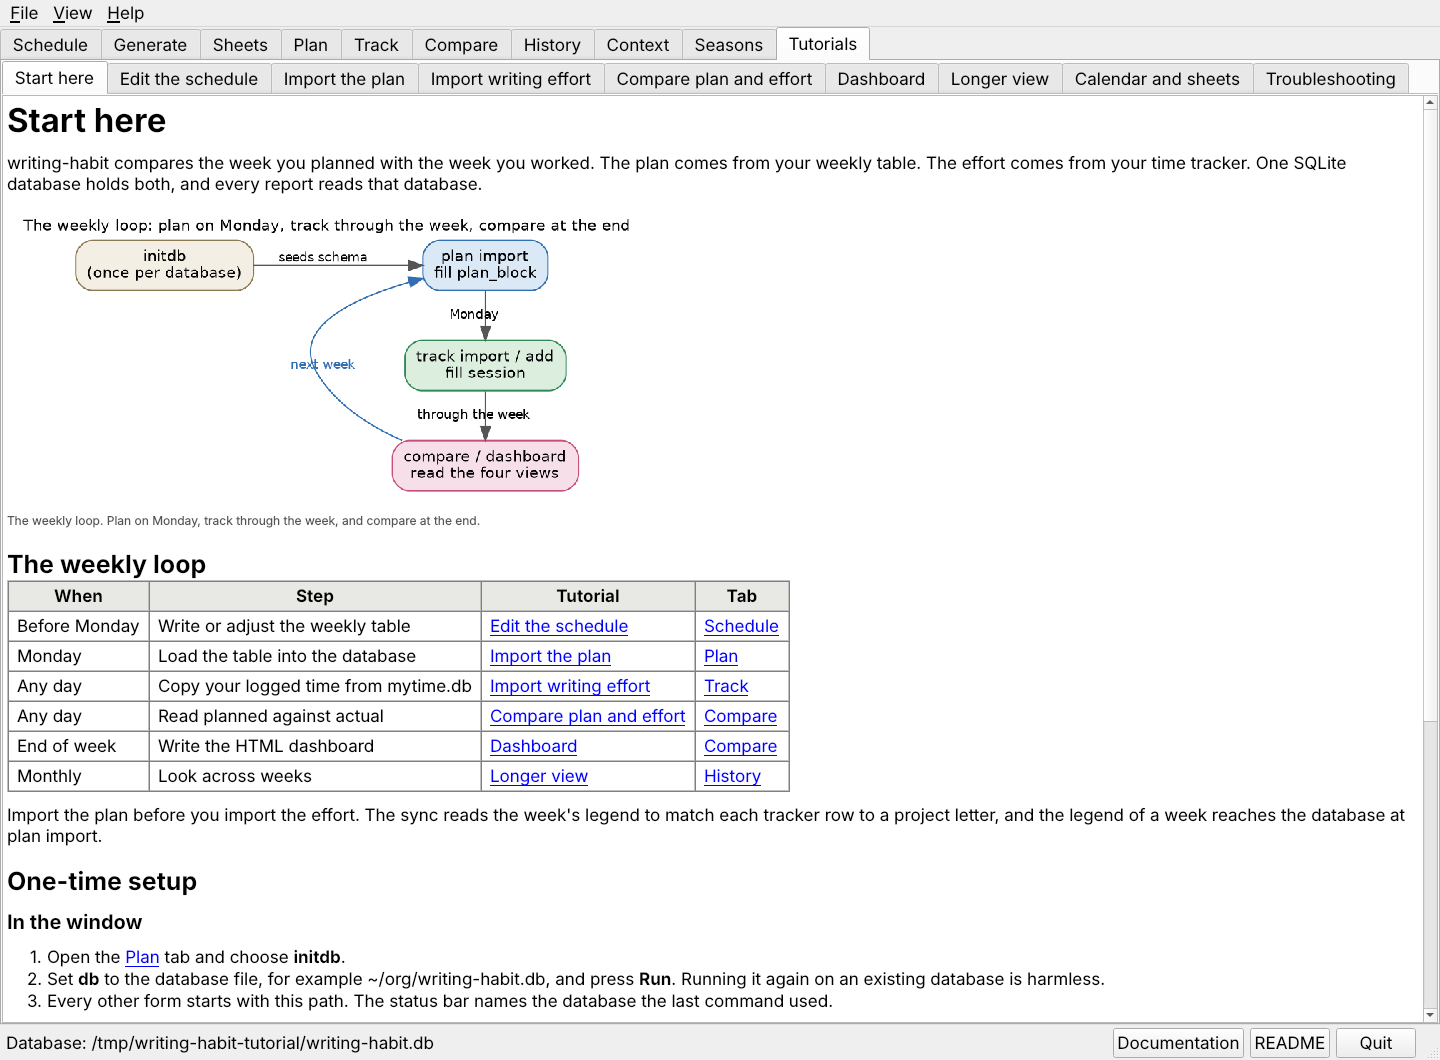
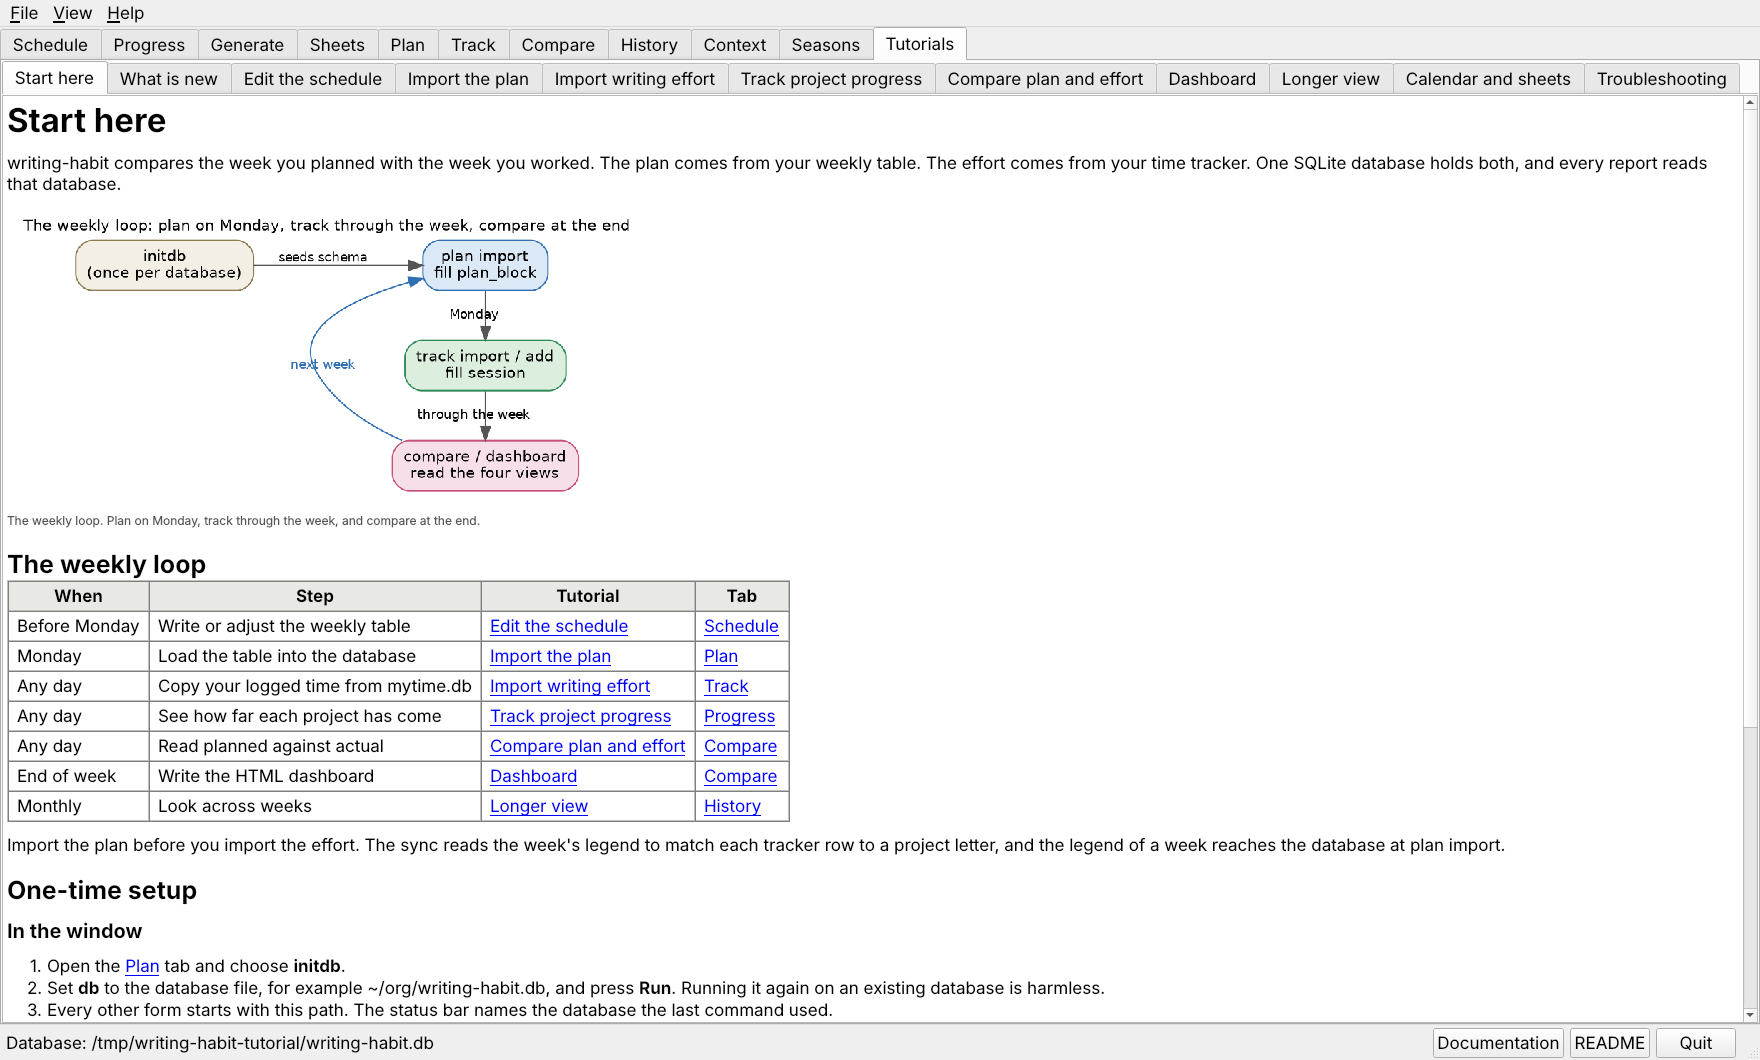
Updated tutorials.

Changed region(s): [[0.0, 0.0, 1.0, 0.9962], [0.7812, 0.9651, 0.9688, 1.0]]

diff --git a/src/writing_habit/gui/tutorials/progress.html b/src/writing_habit/gui/tutorials/progress.html
@@ -1,0 +1,73 @@
+<h1>Track project progress</h1>
+<p>The weekly comparison says how one week went. The <b>Progress</b> tab takes
+the long view. It draws one bar for each unfinished project, so you can see
+which projects are nearly done, which have barely started, and which deadlines
+are close. It also lets you say how much each project matters, and the coach
+uses those weights to suggest next week's plan.</p>
+
+<p><img src="images/progress.png" width="680"></p>
+<p class="caption">The Progress tab with the practice week. The whole bar is the estimate,
+green is the time spent, and white is the time left. The days to each deadline
+follow the bar.</p>
+
+<h2>Make the progress table</h2>
+<h3>In the window</h3>
+<ol>
+<li>Open the week's file on the <a href="tab:Schedule">Schedule</a> tab.</li>
+<li>Open the <a href="tab:Progress">Progress</a> tab and press <b>Add projects from
+the current list</b>. A table named <code>progress</code> is added at the end of the
+file, with a row for each numbered project of this semester's list. A project
+brings its deadline with it.</li>
+<li>Type the <b>Est. hours</b> each project is expected to need and its
+<b>Weight</b>. A scale from 0 to 1 works well. Type or correct the <b>Deadline</b>
+as <code>YYYY-MM-DD</code>.</li>
+<li>Press <b>Update hours spent</b>. The hours come from the <code>zTimeSpent</code>
+table of <code>mytime.db</code>, matched by the project's four-digit number. The
+tracker is only read, never written.</li>
+<li>Press <b>Save to the week file</b>. The table lives in the week file, so a new
+week's file made by copying this one carries it forward.</li>
+</ol>
+
+<table border="1" cellspacing="0">
+<tr><th>Column</th><th>Filled by</th></tr>
+<tr><td>Project ID, Project name</td><td>the current list</td></tr>
+<tr><td>Est. hours, Weight</td><td>you</td></tr>
+<tr><td>Hours spent</td><td>Update hours spent, from mytime.db</td></tr>
+<tr><td>Deadline</td><td>the list or the legend, or you</td></tr>
+<tr><td>Days to deadline</td><td>counted from today each time the table is written</td></tr>
+<tr><td>Next week</td><td>the checkbox, or the plan dialog</td></tr>
+</table>
+
+<h2>Read the chart</h2>
+<p>The projects are listed by number and name. A dark green piece past a tick
+mark is time spent beyond the estimate, which is a sign to raise the estimate or
+to ask why. The days to the deadline are amber within two weeks and red once the
+deadline has passed. A checked project whose weight is above 0.85 is highlighted
+in pale yellow. Hover over a bar for its numbers.</p>
+
+<h2>Plan next week from your progress</h2>
+<ol>
+<li>On the <a href="tab:Schedule">Schedule</a> tab choose <b>Coach &gt; Plan next week
+from progress</b>.</li>
+<li>The week's planned hours are shared among the checked projects by weight,
+never more than a project has left, and each project's blocks are placed in the
+hours your energy profile rates best for new writing.</li>
+<li>Uncheck a project you will not work on next week and press <b>Update the
+plan</b>. The hours are shared again among the rest.</li>
+<li>Press <b>Add the checked to Next week</b>. The projects go on the Next week
+list, the suggested blocks are copied to the clipboard, and the boxes are
+remembered, so they start the same way next week.</li>
+</ol>
+
+<p><img src="images/progress-plan.png" width="560"></p>
+<p class="caption">The plan for next week, one line per project with its hours and blocks.</p>
+
+<h2>In Emacs</h2>
+<p>writing-habit-el reads and writes the same table. From the week's buffer:</p>
+<pre>M-x writing-habit-progress          the progress dashboard
+M-x writing-habit-progress-update   fill Hours spent from mytime.db
+M-x writing-habit-hours             the week as hours by day</pre>
+<p>In the dashboard, <b>u</b> updates the hours, <b>a</b> adds the current list's
+projects, <b>e</b> jumps to the table, and <b>g</b> redraws.</p>
+
+<p>Next, <a href="tutorial:compare">compare plan and effort</a>.</p>

diff --git a/src/writing_habit/gui/tutorials/whatsnew.html b/src/writing_habit/gui/tutorials/whatsnew.html
@@ -1,0 +1,51 @@
+<h1>What is new</h1>
+<p>A short tour of the recent additions, with the tutorial that covers each one.</p>
+
+<h2>The hour view</h2>
+<ul>
+<li>The blocks are drawn half transparent with outlines, so two blocks that
+share an hour, and the break between them, can both be seen.</li>
+<li>Drag the top or bottom edge of a block to change its length, or drag its
+middle to move it to another time or day. Esc cancels. See
+<a href="tutorial:schedule">Edit the schedule</a>.</li>
+<li>A block's further hours show only a down arrow, which keeps the grid quiet.</li>
+</ul>
+
+<h2>The weeks ahead</h2>
+<ul>
+<li>The <b>Weeks</b> row of buttons holds This week, eight lists from Next week to
+Eight weeks out, and the Grasscatcher. The <b>Semesters</b> row below holds the
+semester lists. Both rows wrap when the window is narrow.</li>
+<li>Put a project in a later week to take it off this week's mind, and copy it
+into this week's legend when its week comes.</li>
+</ul>
+
+<h2>Progress and next week's plan</h2>
+<ul>
+<li>The <a href="tab:Progress">Progress</a> tab charts the hours spent on each
+unfinished project against its estimate, with the days to its deadline. See
+<a href="tutorial:progress">Track project progress</a>.</li>
+<li><b>Coach &gt; Plan next week from progress</b> shares next week's hours by
+your weights and places them in your best hours. Unchecked projects stay
+unchecked next week, and heavy checked ones are highlighted.</li>
+</ul>
+
+<h2>More from the coach</h2>
+<p>The Coach menu of the <a href="tab:Schedule">Schedule</a> tab gained
+<b>Rescue missed blocks</b>, <b>Ask about missed blocks</b>, <b>Number a new
+project</b>, <b>Triage carried projects</b>, <b>Monday message for my partner</b>,
+and <b>Semester review</b>. The software makes every decision and computes every
+number, and a local model, when you turn it on, only words the note.</p>
+
+<h2>Safer with the time tracker</h2>
+<p>The Pomodoro count is written only to a table with the count's own columns,
+and never to <code>zTimeSpent</code>, so the tracker's table and its formulas stay
+as you made them. Every reading of <code>mytime.db</code> is read-only.</p>
+
+<h2>In Emacs</h2>
+<p>writing-habit-el now has the planning checks and helpers of the Coach menu,
+a progress dashboard, and an hour-by-day view of the week:</p>
+<pre>C-c C-; h   hour view
+C-c C-; g   progress dashboard
+C-c C-; U   update hours spent
+C-c C-; A   add the current list's projects to the progress table</pre>

diff --git a/src/writing_habit/gui/tutorials/start.html b/src/writing_habit/gui/tutorials/start.html
@@ -12,6 +12,7 @@ SQLite database holds both, and every report reads that database.</p>
 <tr><td>Before Monday</td><td>Write or adjust the weekly table</td><td><a href="tutorial:schedule">Edit the schedule</a></td><td><a href="tab:Schedule">Schedule</a></td></tr>
 <tr><td>Monday</td><td>Load the table into the database</td><td><a href="tutorial:plan">Import the plan</a></td><td><a href="tab:Plan">Plan</a></td></tr>
 <tr><td>Any day</td><td>Copy your logged time from mytime.db</td><td><a href="tutorial:track">Import writing effort</a></td><td><a href="tab:Track">Track</a></td></tr>
+<tr><td>Any day</td><td>See how far each project has come</td><td><a href="tutorial:progress">Track project progress</a></td><td><a href="tab:Progress">Progress</a></td></tr>
 <tr><td>Any day</td><td>Read planned against actual</td><td><a href="tutorial:compare">Compare plan and effort</a></td><td><a href="tab:Compare">Compare</a></td></tr>
 <tr><td>End of week</td><td>Write the HTML dashboard</td><td><a href="tutorial:dashboard">Dashboard</a></td><td><a href="tab:Compare">Compare</a></td></tr>
 <tr><td>Monthly</td><td>Look across weeks</td><td><a href="tutorial:history">Longer view</a></td><td><a href="tab:History">History</a></td></tr>

diff --git a/src/writing_habit/gui/tutorials/track.html b/src/writing_habit/gui/tutorials/track.html
@@ -61,4 +61,4 @@ writing-habit track import week.ics --format ics --db ~/org/writing-habit.db</pr
 <p>Choose <b>track add</b>, then give the day, the project code, and either the minutes or a start and an end.</p>
 <pre>writing-habit track add --day 2026-10-12 --project A --minutes 75 \
     --category generative --db ~/org/writing-habit.db</pre>
-<p>Next, <a href="tutorial:compare">compare plan and effort</a>.</p>
+<p>Next, <a href="tutorial:progress">track project progress</a>.</p>

diff --git a/scripts/make_tutorial_images.py b/scripts/make_tutorial_images.py
@@ -320,6 +320,40 @@ def plan_check_images(app, window, store):
     app.processEvents()
 
 
+def progress_images(app, window, mytime):
+    """Photograph the Progress tab and the plan it suggests for next week."""
+    view = window.progress
+    view.seed()
+    for row, (estimate, weight) in zip(view.rows, [(120, 0.9), (40, 0.6), (30, 0.3),
+                                                   (60, 0.95), (200, 0.4)]):
+        row.estimate, row.weight = estimate, weight
+    view.store()
+    view.update_hours(mytime)
+    window.show_tab("Progress")
+    app.processEvents()
+    save(window, "progress.png")
+
+    editor = window.editor
+    shots = []
+
+    def photograph(dialog):
+        dialog.show()
+        app.processEvents()
+        save(dialog, "progress-plan.png")
+        shots.append(dialog)
+        dialog.close()
+        return False
+
+    keep = editor.run_coach_dialog
+    editor.run_coach_dialog = photograph
+    window.show_tab("Schedule")
+    editor.coach_runner.background = False
+    editor.plan_from_progress()
+    editor.run_coach_dialog = keep
+    if not shots:
+        print("The plan from progress opened no dialog, so progress-plan.png was not drawn")
+
+
 def main() -> int:
     from writing_habit import db
     from writing_habit.gui import settings
@@ -392,6 +426,8 @@ def main() -> int:
     panel = show_form(window, "Track", "track sync")
     run(app, panel, source=str(mytime))
     save(window, "track-sync.png")
+
+    progress_images(app, window, str(mytime))
 
     panel = show_form(window, "Compare", "compare")
     run(app, panel, week=WEEK)

diff --git a/tests/test_progress.py b/tests/test_progress.py
@@ -251,3 +251,11 @@ def test_seed_and_fill_take_the_deadline_from_the_lists():
                                            Entry("B", "0201dusp1 2026-10-15")])
     assert added == 1
     assert [r.deadline for r in rows] == ["2026-12-15", "2026-12-01"]   # typed one kept
+
+
+def test_a_weight_keeps_two_decimals():
+    lines = ["#+NAME: progress", "| Project ID | Project name | Weight |", "| 1006 | x | 0.95 |"]
+    rows = progress.read(lines)
+    progress.write(lines, rows)
+    assert progress.read(lines)[0].weight == 0.95
+    assert " 0.95 |" in lines[3]

diff --git a/tests/test_tutorials.py b/tests/test_tutorials.py
@@ -38,7 +38,8 @@ def test_every_page_shows_both_routes(name):
 def test_the_tab_links_name_real_tabs():
     pytest.importorskip("PyQt5", reason="the graphical extra is not installed")
     from writing_habit.gui import mainwindow
-    titles = {entry[0] for entry in mainwindow.TABS} | {mainwindow.TUTORIALS}
+    titles = ({entry[0] for entry in mainwindow.TABS}
+              | {mainwindow.TUTORIALS, mainwindow.PROGRESS})
     for text in PAGE_TEXT.values():
         for tab in re.findall(r'href="tab:([^"]+)"', text):
             assert tab in titles, tab

diff --git a/src/writing_habit/gui/tutorials/__init__.py b/src/writing_habit/gui/tutorials/__init__.py
@@ -20,9 +20,11 @@ IMAGES = HERE / "images"
 #: (subtab title, page file), in the order of the weekly loop.
 PAGES: List[Tuple[str, str]] = [
     ("Start here", "start.html"),
+    ("What is new", "whatsnew.html"),
     ("Edit the schedule", "schedule.html"),
     ("Import the plan", "plan.html"),
     ("Import writing effort", "track.html"),
+    ("Track project progress", "progress.html"),
     ("Compare plan and effort", "compare.html"),
     ("Dashboard", "dashboard.html"),
     ("Longer view", "history.html"),

diff --git a/src/writing_habit/progress.py b/src/writing_habit/progress.py
@@ -143,7 +143,8 @@ def _cells(line: str) -> List[str]:
 def _fmt(value: Optional[float]) -> str:
     if value is None:
         return ""
-    return f"{value:g}" if value == int(value) else f"{value:.1f}".rstrip("0").rstrip(".")
+    # Two decimals keep a weight such as 0.95 as typed.
+    return f"{value:g}" if value == int(value) else f"{value:.2f}".rstrip("0").rstrip(".")
 
 
 def span(lines: Sequence[str]) -> Optional[Tuple[int, int, int]]:

diff --git a/src/writing_habit/gui/progress_view.py b/src/writing_habit/gui/progress_view.py
@@ -63,7 +63,7 @@ class ProgressChart(QtWidgets.QWidget):
     ROW = 26
     BAR = 16
     TOP = 34
-    BOTTOM = 34
+    BOTTOM = 42
     RIGHT = 96              # room for the days to the deadline after the longest bar
 
     def __init__(self, parent=None):

diff --git a/docs/gui.md b/docs/gui.md
@@ -1192,8 +1192,8 @@ next March. Risk tags and default activities are kept.
 ## The Tutorials tab
 
 The last tab holds one tutorial per task of the weekly loop, each in its own
-subtab: Start here, Edit the schedule, Import the plan, Import writing effort,
-Compare plan and effort, Dashboard, Longer view, Calendar and sheets, and
+subtab: Start here, What is new, Edit the schedule, Import the plan, Import
+writing effort, Track project progress, Compare plan and effort, Dashboard, Longer view, Calendar and sheets, and
 Troubleshooting. Each page gives the point-and-click route and the matching
 commands, with screenshots of the practice week in `examples/tutorial`. A link
 such as **Track** on a page raises that tab, and **Help > Tutorials** opens the
